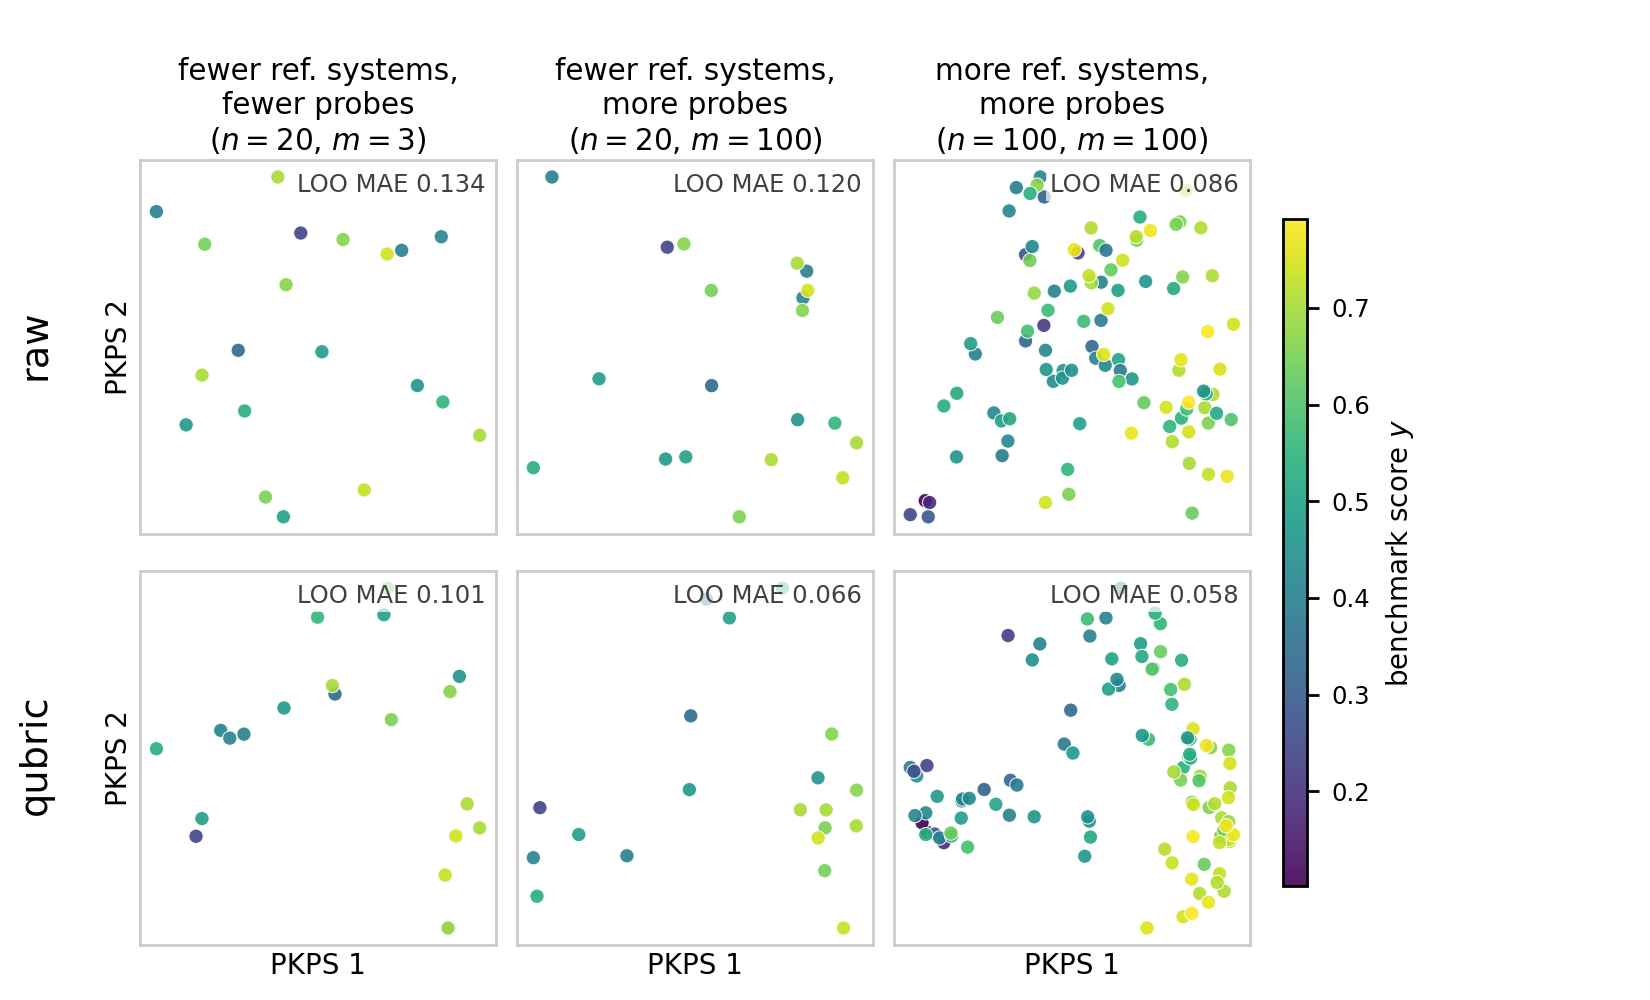
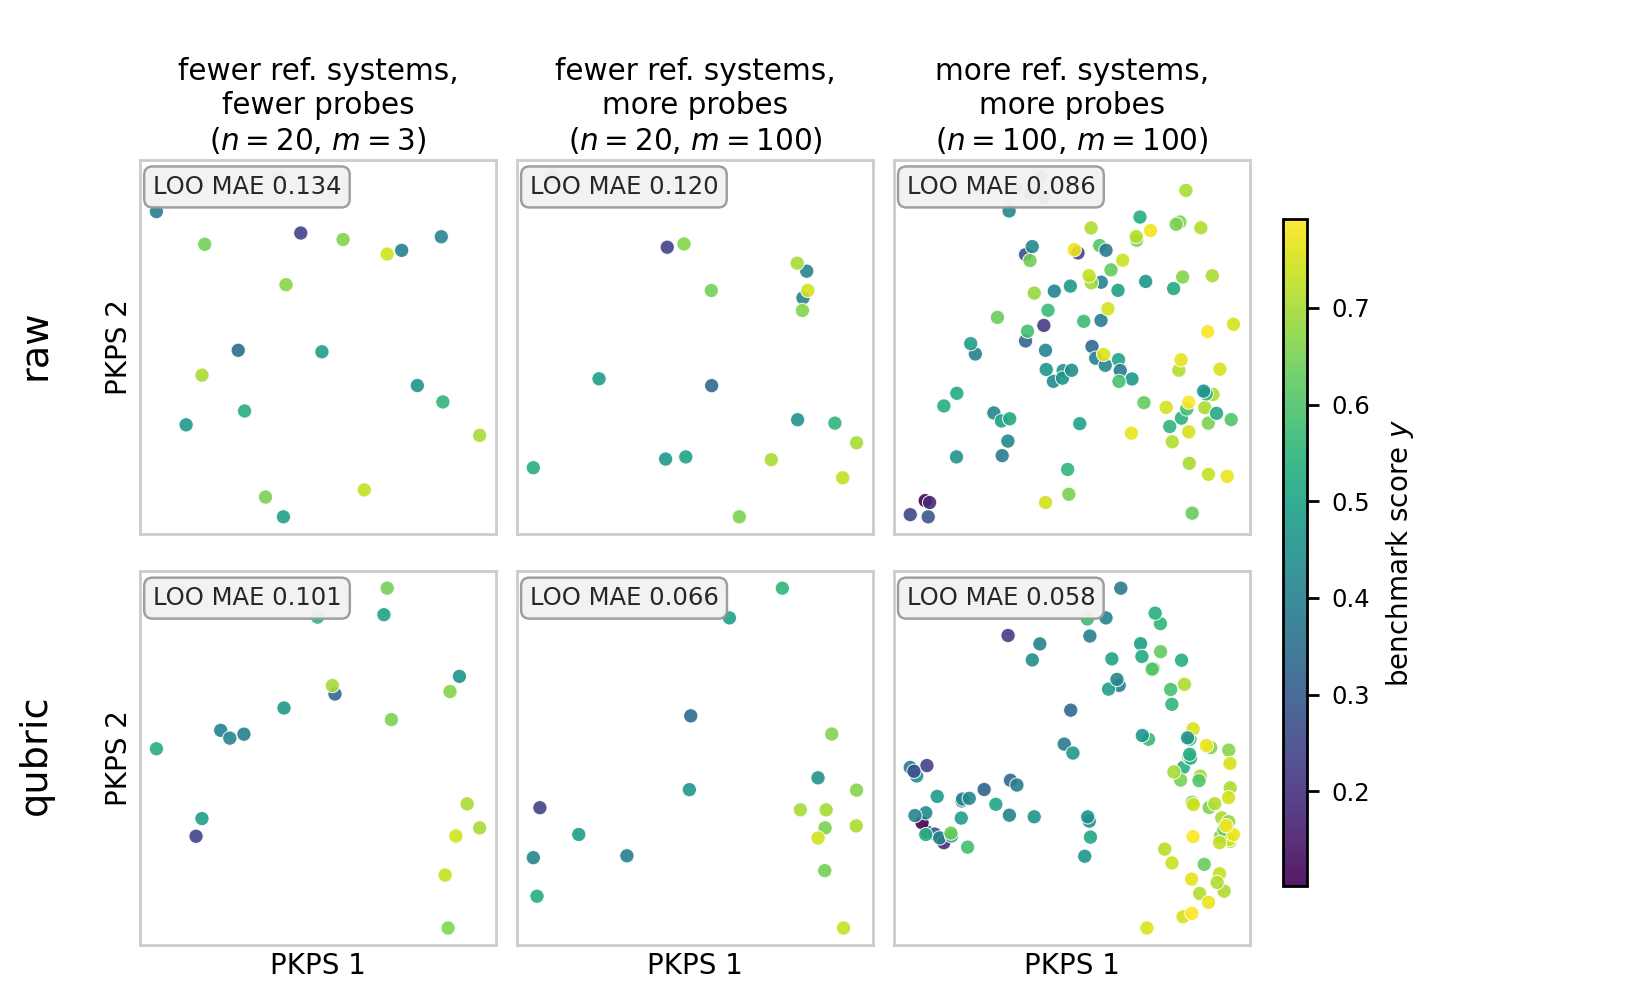
fig2: LOO MAE badge top-left with rounded shaded box
Claude-Session: https://claude.ai/code/session_01RGusFFXzoPTkSKgzzDLjNv

diff --git a/scripts/fig2_nm.py b/scripts/fig2_nm.py
@@ -106,10 +106,11 @@ def main():
             sc = ax.scatter(Z[:, 0], Z[:, 1], c=y[sub], cmap='viridis',
                             vmin=y.min(), vmax=y.max(), s=17, alpha=.9,
                             edgecolors='white', lw=.3)
-            ax.text(.97, .965, f'LOO MAE {loo_mae(D, y[sub]):.3f}',
-                    transform=ax.transAxes, ha='right', va='top',
-                    fontsize=7, color='.25',
-                    bbox=dict(fc='white', ec='none', alpha=.7, pad=1.2))
+            ax.text(.035, .96, f'LOO MAE {loo_mae(D, y[sub]):.3f}',
+                    transform=ax.transAxes, ha='left', va='top',
+                    fontsize=7, color='.15',
+                    bbox=dict(boxstyle='round,pad=0.35', fc='#f2f2f2',
+                              ec='.6', lw=.7, alpha=.95))
             if r == 0:
                 ax.set_title(cname.replace(', ', ',\n')
                              + f'\n($n={n}$, $m={m}$)',
